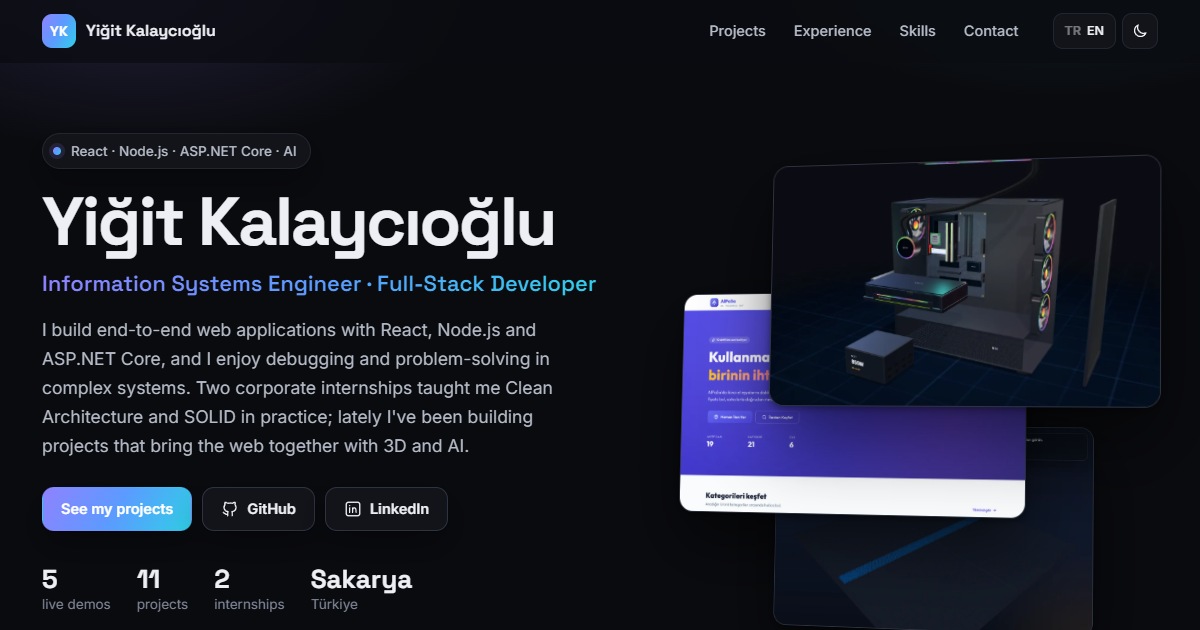
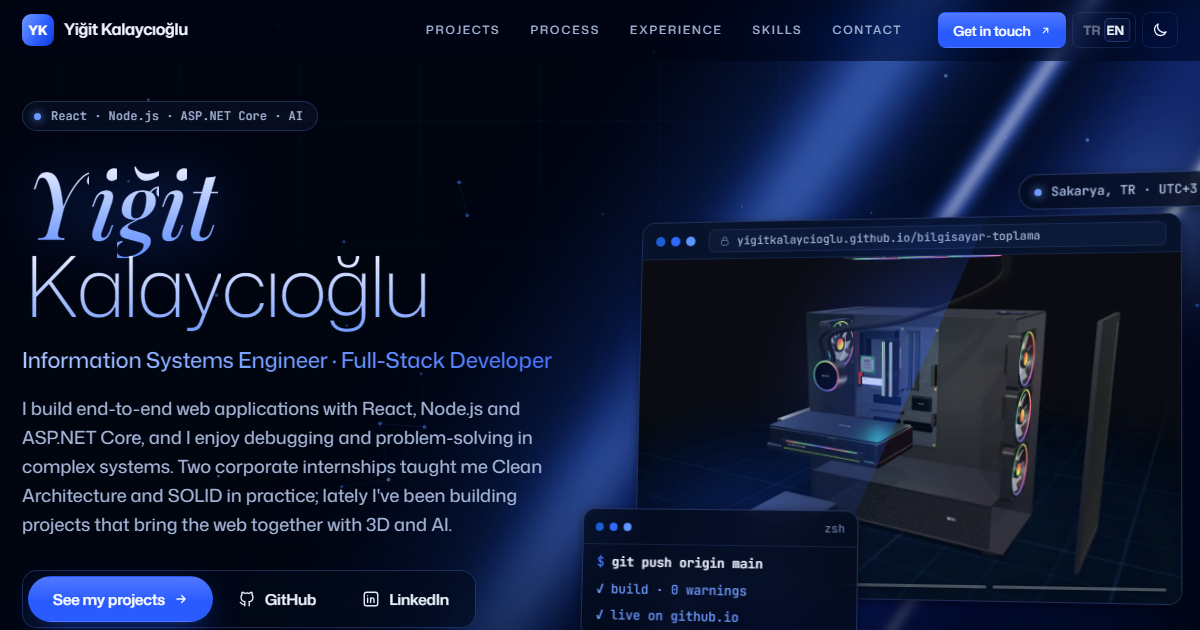
Site denetimi: açık tema, mobil menü, kopyala düğmesi ve küçük düzeltmeler
- Açık tema: başlık gradyanları tema değişkenine taşındı; isim ve italik
  vurgular açık zeminde artık koyu kobalt (önceden neredeyse beyazdı).
  Parçacıklar eski mor/pembe yerine kobalt, soluk metin kontrastı artırıldı,
  seçim rengi okunur hale getirildi.
- Mobil: bölüm bağlantıları 720px altında gizlenmek yerine menünün altında
  yana kaydırılabilir satır olarak görünüyor; etkin bağlantı görünür tutuluyor.
- SLA sayfası: dil değişince kod başlığındaki Kopyala düğmesi siliniyordu.
- Stok+ gizlilik sayfalarına meta açıklaması eklendi.
- og.png güncel tasarımdan yeniden üretildi.

diff --git a/assets/css/site.css b/assets/css/site.css
@@ -2,7 +2,7 @@
 :root {
   --bg: #fbfbfd; --bg-2: #f2f2f5; --surface: #ffffff; --surface-2: #f5f5f7; --surface-3: rgba(0, 0, 0, .03);
   --line: rgba(0, 0, 0, .08); --line-2: rgba(0, 0, 0, .14);
-  --text: #1d1d1f; --text-2: #515154; --muted: #86868b;
+  --text: #1d1d1f; --text-2: #515154; --muted: #6e6e73;
   --accent: #0047ab; --accent-2: #1a5fd6; --accent-3: #1a5fd6; --accent-soft: rgba(0, 71, 171, .1);
   --ok: #0047ab;
   --grad: linear-gradient(120deg, #0047ab 0%, #1a5fd6 60%, #6aa3ff 100%);
@@ -10,9 +10,12 @@
   --btn-bg: #1d4fff; --btn-text: #ffffff; --btn-glow: rgba(29, 79, 255, .4);
   --tab-on: #1d4fff; --tab-on-text: #ffffff;
   --edge: rgba(0, 71, 171, .55); --glow-1: rgba(0, 71, 171, .08);
-  --fx-a: 107, 78, 255; --fx-b: 214, 51, 143; --fx-o: .3;
+  --fx-a: 0, 71, 171; --fx-b: 26, 95, 214; --fx-o: .3;
   --grid: rgba(0, 0, 0, .045); --veil: rgba(251, 251, 253, .65); --stroke: rgba(0, 0, 0, .2);
   --beam-o: .45; --beam-blend: multiply;
+  --hl-a: linear-gradient(180deg, #3d78ff 0%, #0047ab 62%, #00307a 100%);
+  --hl-b: linear-gradient(180deg, #1d1d1f 0%, #12326e 55%, #1a5fd6 100%);
+  --hl-glow: rgba(29, 79, 255, .18);
   --shadow: 0 1px 2px rgba(0, 0, 0, .04), 0 10px 30px rgba(0, 0, 0, .06);
   --shadow-lg: 0 2px 6px rgba(0, 0, 0, .05), 0 40px 80px -20px rgba(0, 0, 0, .18);
   --r: 14px; --r-sm: 10px;
@@ -37,6 +40,9 @@
   --fx-a: 74, 125, 255; --fx-b: 156, 188, 255; --fx-o: .55;
   --grid: rgba(110, 150, 255, .04); --veil: rgba(0, 5, 16, .66); --stroke: rgba(150, 180, 255, .3);
   --beam-o: 1; --beam-blend: screen;
+  --hl-a: linear-gradient(180deg, #e8efff 5%, #8fb0ff 55%, #4f80ff 100%);
+  --hl-b: linear-gradient(180deg, #f2f6ff 0%, #a9c1ff 50%, #5a88ff 100%);
+  --hl-glow: rgba(42, 91, 255, .55);
   --shadow: 0 1px 2px rgba(0, 0, 0, .5), 0 14px 34px rgba(0, 3, 14, .6);
   --shadow-lg: 0 2px 8px rgba(0, 0, 0, .5), 0 50px 100px -20px rgba(0, 12, 60, .9), 0 0 0 1px rgba(110, 150, 255, .05);
   color-scheme: dark;
@@ -56,6 +62,9 @@
     --fx-a: 74, 125, 255; --fx-b: 156, 188, 255; --fx-o: .55;
     --grid: rgba(110, 150, 255, .04); --veil: rgba(0, 5, 16, .66); --stroke: rgba(150, 180, 255, .3);
     --beam-o: 1; --beam-blend: screen;
+    --hl-a: linear-gradient(180deg, #e8efff 5%, #8fb0ff 55%, #4f80ff 100%);
+    --hl-b: linear-gradient(180deg, #f2f6ff 0%, #a9c1ff 50%, #5a88ff 100%);
+    --hl-glow: rgba(42, 91, 255, .55);
     --shadow: 0 1px 2px rgba(0, 0, 0, .5), 0 14px 34px rgba(0, 3, 14, .6);
     --shadow-lg: 0 2px 8px rgba(0, 0, 0, .5), 0 50px 100px -20px rgba(0, 12, 60, .9), 0 0 0 1px rgba(110, 150, 255, .05);
     color-scheme: dark;
@@ -75,7 +84,7 @@ body {
   font: 450 16px/1.6 var(--font); -webkit-font-smoothing: antialiased; -moz-osx-font-smoothing: grayscale; overflow-x: clip;
   font-optical-sizing: auto;
 }
-::selection { background: var(--accent); color: #000; }
+::selection { background: var(--accent); color: #fff; }
 a { color: var(--accent); text-decoration: none; }
 a:hover { text-decoration: underline; }
 img { max-width: 100%; display: block; }
@@ -209,10 +218,10 @@ html[lang="en"] .pill::before { translate: 100% 0; }
 @keyframes ping { 0% { transform: scale(1); opacity: .8; } 100% { transform: scale(3.2); opacity: 0; } }
 h1 { font: 450 clamp(48px, 7vw, 96px)/.94 var(--font); letter-spacing: -.05em; margin: 0 0 20px; }
 /* ad: ilk kelime yüksek kontrastlı italik serif, soyadı ince sans; ikisi de dikey kobalt gradyan */
-.hero h1.split .w:first-child { font-family: var(--font-serif); font-style: italic; font-weight: 500; font-size: 1.12em; letter-spacing: -.01em; padding-right: .14em; filter: drop-shadow(0 0 28px rgba(42, 91, 255, .55)); }
-.hero h1.split .w:first-child .ch { background: linear-gradient(180deg, #e8efff 5%, #8fb0ff 55%, #4f80ff 100%); -webkit-background-clip: text; background-clip: text; color: transparent; }
+.hero h1.split .w:first-child { font-family: var(--font-serif); font-style: italic; font-weight: 500; font-size: 1.12em; letter-spacing: -.01em; padding-right: .14em; filter: drop-shadow(0 0 28px var(--hl-glow)); }
+.hero h1.split .w:first-child .ch { background: var(--hl-a); -webkit-background-clip: text; background-clip: text; color: transparent; }
 .hero h1.split .w:not(:first-child) { font-weight: 250; letter-spacing: -.045em; }
-.hero h1.split .w:not(:first-child) .ch { background: linear-gradient(180deg, #f2f6ff 0%, #a9c1ff 50%, #5a88ff 100%); -webkit-background-clip: text; background-clip: text; color: transparent; }
+.hero h1.split .w:not(:first-child) .ch { background: var(--hl-b); -webkit-background-clip: text; background-clip: text; color: transparent; }
 .hero h1.split .w { display: inline-block; overflow: hidden; padding: .06em .03em .34em; margin: -.06em 0 -.34em; vertical-align: top; }
 .hero h1.split .ch { display: inline-block; padding-bottom: .3em; margin-bottom: -.3em; transform: translateY(110%); filter: blur(6px); animation: chIn 1.2s var(--ease) both; animation-delay: calc(var(--i) * 40ms + 150ms); }
 .loading .hero h1.split .ch { animation-play-state: paused; }
@@ -294,7 +303,7 @@ h1 { font: 450 clamp(48px, 7vw, 96px)/.94 var(--font); letter-spacing: -.05em; m
 .sec-num::after { content: ""; width: 80px; height: 1px; background: linear-gradient(90deg, var(--line-2), transparent); transform-origin: 0 50%; }
 .js .reveal .sec-num::after { transform: scaleX(var(--p, 0)); }
 h2 { font: 300 clamp(38px, 5.4vw, 68px)/1.04 var(--font); letter-spacing: -.04em; margin: 0 0 10px; }
-[data-split] .sw:last-child { font-family: var(--font-serif); font-style: italic; font-weight: 500; font-size: 1.02em; letter-spacing: -.01em; background: linear-gradient(180deg, #e8efff 0%, #84a8ff 60%, #3f74ff 100%); background-size: 200% auto; -webkit-background-clip: text; background-clip: text; color: transparent; padding: 0 .06em .3em 0; margin-bottom: -.3em; }
+[data-split] .sw:last-child { font-family: var(--font-serif); font-style: italic; font-weight: 500; font-size: 1.02em; letter-spacing: -.01em; background: var(--hl-a); background-size: 200% auto; -webkit-background-clip: text; background-clip: text; color: transparent; padding: 0 .06em .3em 0; margin-bottom: -.3em; }
 .sw {
   display: inline-block;
   --wp: clamp(0, calc((var(--p, 1) * (var(--wn, 3) + 2) - var(--wi, 0)) / 2), 1);
@@ -648,7 +657,12 @@ p { margin: 0 0 14px; }
   .fbrand { grid-column: 1 / -1; }
 }
 @media (max-width: 720px) {
-  .links { display: none; }
+  /* bölüm bağlantıları menünün altında, yana kaydırılabilir ikinci satır */
+  .nav-in { flex-wrap: wrap; row-gap: 4px; padding-bottom: 4px; }
+  .links { order: 3; flex: 0 0 calc(100% + 44px); margin: 0 -22px; padding: 0 14px; overflow-x: auto; scrollbar-width: none; -webkit-mask-image: linear-gradient(90deg, transparent, #000 14px, #000 calc(100% - 28px), transparent); mask-image: linear-gradient(90deg, transparent, #000 14px, #000 calc(100% - 28px), transparent); }
+  .links::-webkit-scrollbar { display: none; }
+  .links a { flex: none; padding: 8px 9px; font-size: 10.5px; letter-spacing: .1em; }
+  .links .ind::after { left: 8px; right: 8px; }
   .tools { margin-left: auto; }
   .logo-text { display: none; }
   .section { padding-top: 100px; }

diff --git a/projects/multi-tenant-sla-platform/index.html b/projects/multi-tenant-sla-platform/index.html
@@ -19,7 +19,7 @@
   <link rel="preconnect" href="https://fonts.googleapis.com">
   <link rel="preconnect" href="https://fonts.gstatic.com" crossorigin>
   <link href="https://fonts.googleapis.com/css2?family=Playfair+Display:ital,wght@1,400..700&family=JetBrains+Mono:wght@400;500;600&family=Mona+Sans:wght@200..800&display=swap" rel="stylesheet">
-  <link rel="stylesheet" href="../../assets/css/site.css?v=14">
+  <link rel="stylesheet" href="../../assets/css/site.css?v=15">
   <link rel="stylesheet" href="../../assets/css/proje.css?v=6">
   <script>
     // tema ve dil, ilk boyamadan önce uygulanır
@@ -213,7 +213,7 @@
             <h3 data-i18n="t3.t">No duplicate notifications</h3>
             <p data-i18n-html="t3.d">The worker scans once a minute. Candidates are picked with <code>FOR UPDATE SKIP LOCKED</code>, so two workers never take the same ticket. The state change and the “notified” mark are written in a single <code>UPDATE … RETURNING</code>, and the BullMQ job gets a fixed <code>jobId</code> made from the ticket and notification type, so the same email can't enter the queue twice.</p>
             <div class="code" data-copy>
-              <div class="code-head" data-i18n="t3.code">sla.scanner.ts · response breach query</div>
+              <div class="code-head"><span data-i18n="t3.code">sla.scanner.ts · response breach query</span></div>
               <pre><code><span class="k">WITH</span> candidates <span class="k">AS</span> (
   <span class="k">SELECT</span> t.id
     <span class="k">FROM</span> tickets t
@@ -284,7 +284,7 @@ docker compose up --build</code></pre></div>
             </table>
           </div>
           <p class="code-note" data-i18n-html="da.note">Every demo password is <code>Passw0rd!</code>, and the login screen also asks for the tenant name. To see the isolation, sign in to <code>kuzey</code>, note a ticket number, then search for it as <code>acme</code>.</p>
-          <div class="code" data-copy><div class="code-head" data-i18n="tests">Tests</div><pre><code>cd server
+          <div class="code" data-copy><div class="code-head"><span data-i18n="tests">Tests</span></div><pre><code>cd server
 npm test
 npm run typecheck
 cd ../web
@@ -422,6 +422,6 @@ npm run build</code></pre></div>
   }
   </script>
   <script src="https://cdn.jsdelivr.net/npm/lenis@1.3.4/dist/lenis.min.js" defer></script>
-  <script src="../../assets/js/proje.js?v=4" defer></script>
+  <script src="../../assets/js/proje.js?v=5" defer></script>
 </body>
 </html>

diff --git a/projects/clean-architecture-generator/index.html b/projects/clean-architecture-generator/index.html
@@ -19,7 +19,7 @@
   <link rel="preconnect" href="https://fonts.googleapis.com">
   <link rel="preconnect" href="https://fonts.gstatic.com" crossorigin>
   <link href="https://fonts.googleapis.com/css2?family=Playfair+Display:ital,wght@1,400..700&family=JetBrains+Mono:wght@400;500;600&family=Mona+Sans:wght@200..800&display=swap" rel="stylesheet">
-  <link rel="stylesheet" href="../../assets/css/site.css?v=14">
+  <link rel="stylesheet" href="../../assets/css/site.css?v=15">
   <link rel="stylesheet" href="../../assets/css/proje.css?v=6">
   <script>
     // tema ve dil, ilk boyamadan önce uygulanır
@@ -403,6 +403,6 @@ $env:CAG_BUILD_TESTS = "1"; dotnet test</code></pre></div>
   }
   </script>
   <script src="https://cdn.jsdelivr.net/npm/lenis@1.3.4/dist/lenis.min.js" defer></script>
-  <script src="../../assets/js/proje.js?v=4" defer></script>
+  <script src="../../assets/js/proje.js?v=5" defer></script>
 </body>
 </html>

diff --git a/standby/index.html b/standby/index.html
@@ -19,7 +19,7 @@
   <link rel="preconnect" href="https://fonts.googleapis.com">
   <link rel="preconnect" href="https://fonts.gstatic.com" crossorigin>
   <link href="https://fonts.googleapis.com/css2?family=Playfair+Display:ital,wght@1,400..700&family=JetBrains+Mono:wght@400;500;600&family=Mona+Sans:wght@200..800&display=swap" rel="stylesheet">
-  <link rel="stylesheet" href="../assets/css/site.css?v=14">
+  <link rel="stylesheet" href="../assets/css/site.css?v=15">
   <link rel="stylesheet" href="../assets/css/proje.css?v=6">
   <link rel="stylesheet" href="standby.css?v=1">
   <script>
@@ -542,6 +542,6 @@ half4 c    = content.eval(coord + n * strength * bend);</code></pre>
   }
   </script>
   <script src="https://cdn.jsdelivr.net/npm/lenis@1.3.4/dist/lenis.min.js" defer></script>
-  <script src="../assets/js/proje.js?v=4" defer></script>
+  <script src="../assets/js/proje.js?v=5" defer></script>
 </body>
 </html>

diff --git a/projects/linux-file-monitoring/index.html b/projects/linux-file-monitoring/index.html
@@ -19,7 +19,7 @@
   <link rel="preconnect" href="https://fonts.googleapis.com">
   <link rel="preconnect" href="https://fonts.gstatic.com" crossorigin>
   <link href="https://fonts.googleapis.com/css2?family=Playfair+Display:ital,wght@1,400..700&family=JetBrains+Mono:wght@400;500;600&family=Mona+Sans:wght@200..800&display=swap" rel="stylesheet">
-  <link rel="stylesheet" href="../../assets/css/site.css?v=14">
+  <link rel="stylesheet" href="../../assets/css/site.css?v=15">
   <link rel="stylesheet" href="../../assets/css/proje.css?v=6">
   <script>
     // tema ve dil, ilk boyamadan önce uygulanır
@@ -274,6 +274,6 @@ journalctl -u file_watcher -f</code></pre></div>
   }
   </script>
   <script src="https://cdn.jsdelivr.net/npm/lenis@1.3.4/dist/lenis.min.js" defer></script>
-  <script src="../../assets/js/proje.js?v=4" defer></script>
+  <script src="../../assets/js/proje.js?v=5" defer></script>
 </body>
 </html>

diff --git a/projects/wol-catcher/index.html b/projects/wol-catcher/index.html
@@ -19,7 +19,7 @@
   <link rel="preconnect" href="https://fonts.googleapis.com">
   <link rel="preconnect" href="https://fonts.gstatic.com" crossorigin>
   <link href="https://fonts.googleapis.com/css2?family=Playfair+Display:ital,wght@1,400..700&family=JetBrains+Mono:wght@400;500;600&family=Mona+Sans:wght@200..800&display=swap" rel="stylesheet">
-  <link rel="stylesheet" href="../../assets/css/site.css?v=14">
+  <link rel="stylesheet" href="../../assets/css/site.css?v=15">
   <link rel="stylesheet" href="../../assets/css/proje.css?v=6">
   <script>
     // tema ve dil, ilk boyamadan önce uygulanır
@@ -365,6 +365,6 @@ dotnet run -- console</code></pre></div>
   }
   </script>
   <script src="https://cdn.jsdelivr.net/npm/lenis@1.3.4/dist/lenis.min.js" defer></script>
-  <script src="../../assets/js/proje.js?v=4" defer></script>
+  <script src="../../assets/js/proje.js?v=5" defer></script>
 </body>
 </html>

diff --git a/projects/mini-on-muhasebe/index.html b/projects/mini-on-muhasebe/index.html
@@ -19,7 +19,7 @@
   <link rel="preconnect" href="https://fonts.googleapis.com">
   <link rel="preconnect" href="https://fonts.gstatic.com" crossorigin>
   <link href="https://fonts.googleapis.com/css2?family=Playfair+Display:ital,wght@1,400..700&family=JetBrains+Mono:wght@400;500;600&family=Mona+Sans:wght@200..800&display=swap" rel="stylesheet">
-  <link rel="stylesheet" href="../../assets/css/site.css?v=14">
+  <link rel="stylesheet" href="../../assets/css/site.css?v=15">
   <link rel="stylesheet" href="../../assets/css/proje.css?v=6">
   <script>
     // tema ve dil, ilk boyamadan önce uygulanır
@@ -531,6 +531,6 @@ dotnet test</code></pre></div>
   }
   </script>
   <script src="https://cdn.jsdelivr.net/npm/lenis@1.3.4/dist/lenis.min.js" defer></script>
-  <script src="../../assets/js/proje.js?v=4" defer></script>
+  <script src="../../assets/js/proje.js?v=5" defer></script>
 </body>
 </html>

diff --git a/projects/instareel-blocker/index.html b/projects/instareel-blocker/index.html
@@ -19,7 +19,7 @@
   <link rel="preconnect" href="https://fonts.googleapis.com">
   <link rel="preconnect" href="https://fonts.gstatic.com" crossorigin>
   <link href="https://fonts.googleapis.com/css2?family=Playfair+Display:ital,wght@1,400..700&family=JetBrains+Mono:wght@400;500;600&family=Mona+Sans:wght@200..800&display=swap" rel="stylesheet">
-  <link rel="stylesheet" href="../../assets/css/site.css?v=14">
+  <link rel="stylesheet" href="../../assets/css/site.css?v=15">
   <link rel="stylesheet" href="../../assets/css/proje.css?v=6">
   <script>
     // tema ve dil, ilk boyamadan önce uygulanır
@@ -290,6 +290,6 @@
   }
   </script>
   <script src="https://cdn.jsdelivr.net/npm/lenis@1.3.4/dist/lenis.min.js" defer></script>
-  <script src="../../assets/js/proje.js?v=4" defer></script>
+  <script src="../../assets/js/proje.js?v=5" defer></script>
 </body>
 </html>

diff --git a/index.html b/index.html
@@ -19,7 +19,7 @@
   <link rel="preconnect" href="https://fonts.googleapis.com">
   <link rel="preconnect" href="https://fonts.gstatic.com" crossorigin>
   <link href="https://fonts.googleapis.com/css2?family=Playfair+Display:ital,wght@1,400..700&family=JetBrains+Mono:wght@400;500;600&family=Mona+Sans:wght@200..800&display=swap" rel="stylesheet">
-  <link rel="stylesheet" href="assets/css/site.css?v=14">
+  <link rel="stylesheet" href="assets/css/site.css?v=15">
   <script>
     // tema ve dil, ilk boyamadan önce uygulanır
     (function () {
@@ -564,6 +564,6 @@
 
   <div class="toast" id="toast" role="status" aria-live="polite"></div>
   <script src="https://cdn.jsdelivr.net/npm/lenis@1.3.4/dist/lenis.min.js" defer></script>
-  <script src="assets/js/site.js?v=12" defer></script>
+  <script src="assets/js/site.js?v=13" defer></script>
 </body>
 </html>

diff --git a/stokplus/index.html b/stokplus/index.html
@@ -17,7 +17,7 @@
   <link rel="preconnect" href="https://fonts.googleapis.com">
   <link rel="preconnect" href="https://fonts.gstatic.com" crossorigin>
   <link href="https://fonts.googleapis.com/css2?family=Playfair+Display:ital,wght@1,400..700&family=JetBrains+Mono:wght@400;500;600&family=Mona+Sans:wght@200..800&display=swap" rel="stylesheet">
-  <link rel="stylesheet" href="../assets/css/site.css?v=14">
+  <link rel="stylesheet" href="../assets/css/site.css?v=15">
   <link rel="stylesheet" href="../assets/css/proje.css?v=6">
   <script>
     // tema ve dil, ilk boyamadan önce uygulanır
@@ -442,6 +442,6 @@
   }
   </script>
   <script src="https://cdn.jsdelivr.net/npm/lenis@1.3.4/dist/lenis.min.js" defer></script>
-  <script src="../assets/js/proje.js?v=4" defer></script>
+  <script src="../assets/js/proje.js?v=5" defer></script>
 </body>
 </html>

diff --git a/assets/js/proje.js b/assets/js/proje.js
@@ -319,6 +319,9 @@
     ind.style.width = a.offsetWidth + 'px';
     ind.style.transform = `translateX(${a.offsetLeft}px)`;
     ind.classList.add('on');
+    // mobilde bağlantılar yana kayar: etkin olanı görünür tut
+    const box = ind.parentElement;
+    if (box.scrollWidth > box.clientWidth) box.scrollTo({ left: a.offsetLeft - (box.clientWidth - a.offsetWidth) / 2, behavior: 'smooth' });
   };
   const sections = links.map((a) => $(a.getAttribute('href'))).filter(Boolean);
   const spy = new IntersectionObserver((entries) => {

diff --git a/assets/js/site.js b/assets/js/site.js
@@ -445,6 +445,9 @@
     ind.style.width = a.offsetWidth + 'px';
     ind.style.transform = `translateX(${a.offsetLeft}px)`;
     ind.classList.add('on');
+    // mobilde bağlantılar yana kayar: etkin olanı görünür tut
+    const box = ind.parentElement;
+    if (box.scrollWidth > box.clientWidth) box.scrollTo({ left: a.offsetLeft - (box.clientWidth - a.offsetWidth) / 2, behavior: 'smooth' });
   };
   const sections = links.map((a) => $(a.getAttribute('href'))).filter(Boolean);
   const spy = new IntersectionObserver((entries) => {
